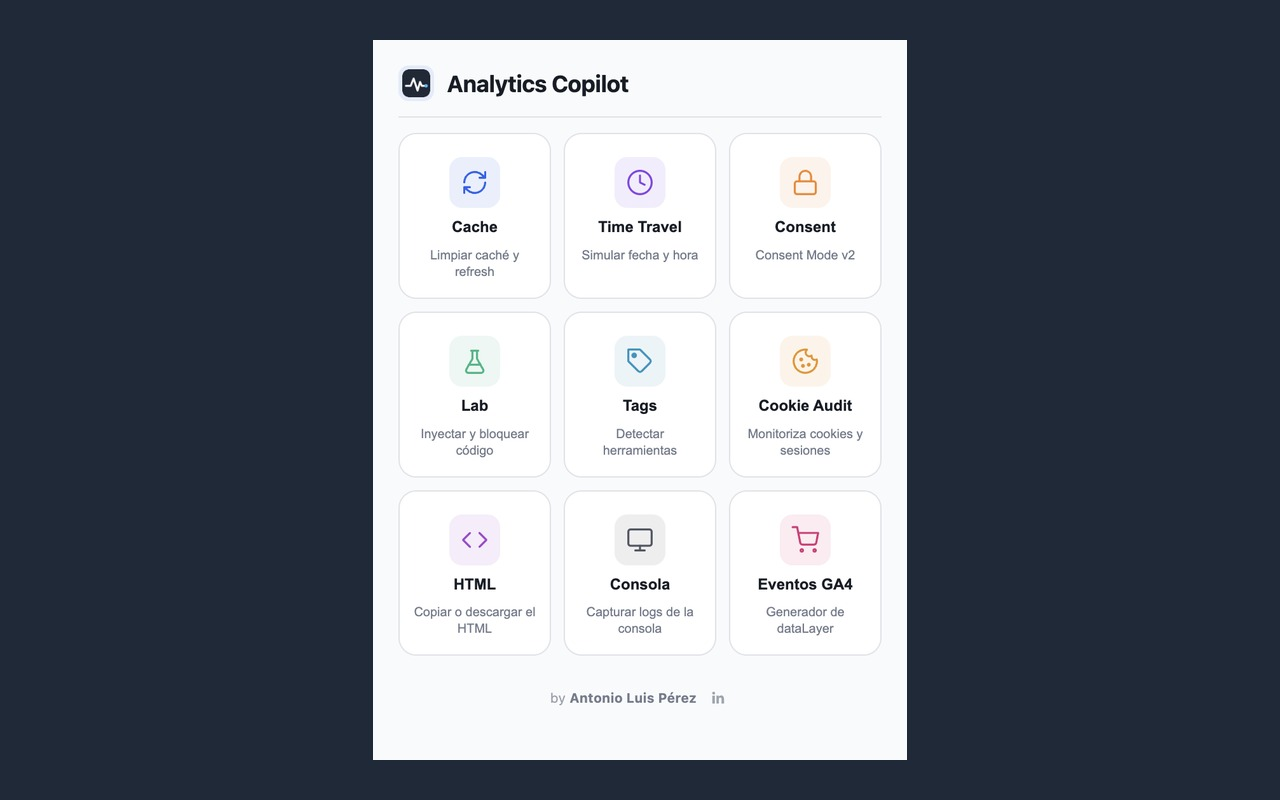
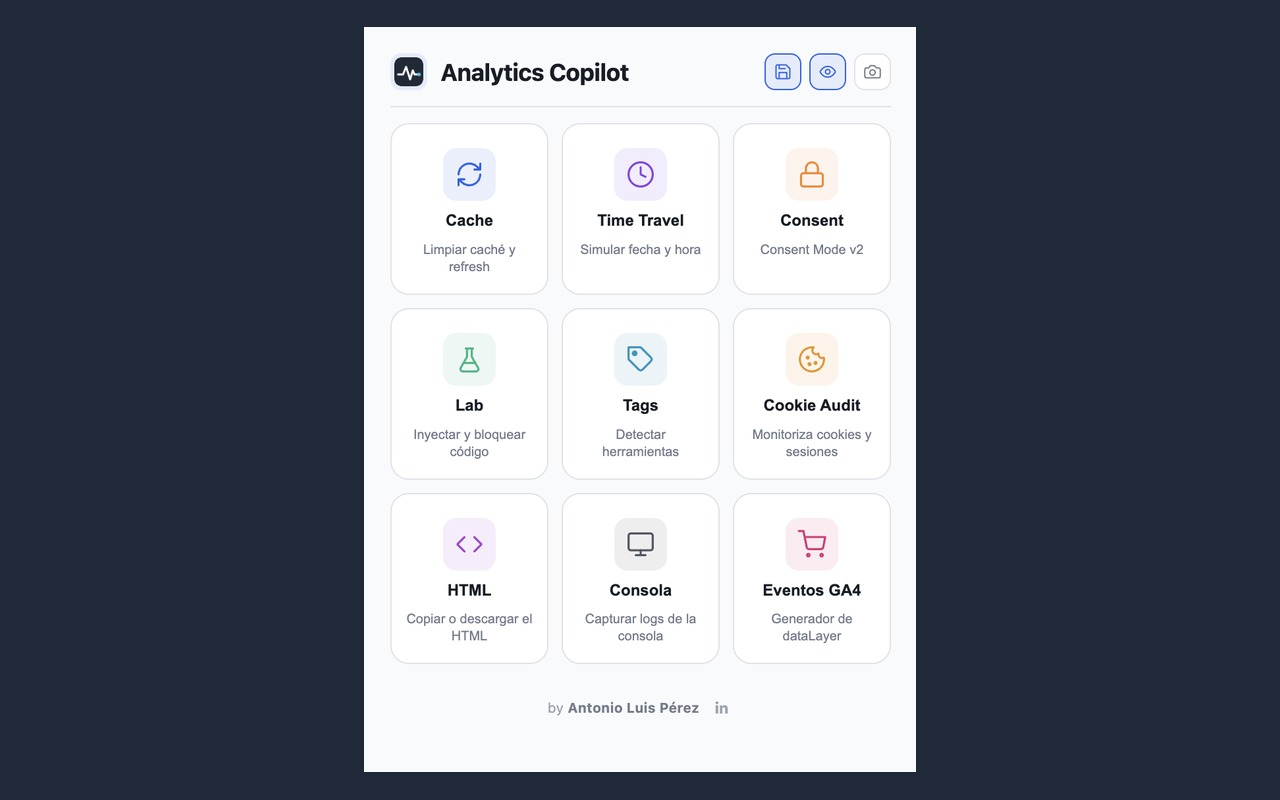
Capturas actualizadas: menu con los iconos de captura y nueva del editor de anotaciones

diff --git a/docs/release-notes-v1.4.0.md b/docs/release-notes-v1.4.0.md
@@ -37,12 +37,14 @@ Sugerencia de encaje: añadirlo al final de la sección "el flujo estrella", com
 
 ## Imágenes
 
-⚠ **Dos avisos importantes antes de tocar las imágenes:**
+Nueva imagen disponible para ilustrar la novedad:
 
-1. **Todavía no hay captura del editor de anotaciones.** No inventes ni generes una: si hace falta ilustrar la sección, usa las existentes o deja la tarjeta sin imagen hasta que Antonio suba una.
-2. `docs/screenshots/menu.jpg` es **anterior** a esta versión: no muestra los iconos de captura de la cabecera. Sigue sirviendo como hero (el grid de tarjetas no ha cambiado), pero conviene rehacerla cuando se pueda.
+- `docs/screenshots/editor.jpg` (1280×800) — **el editor de anotaciones** con la barra de herramientas visible (mover, flecha, caja, texto, difuminar, colores, deshacer, borrar) y una captura de página completa cargada. Úsala junto a la tarjeta nueva o en la sección de novedades.
+- `docs/screenshots/menu.jpg` (1280×800) — **actualizada**: el hero ahora muestra los tres iconos de captura en la cabecera (guardar, abrir, cámara). Sustituye a la anterior en la misma URL, así que no hay que cambiar ningún enlace.
 
-Las URLs públicas de las imágenes (`https://raw.githubusercontent.com/alpc-data-analyst/analytics-copilot/main/…`) solo funcionan **después** de que se publique la v1.4.0 en GitHub. Si la página se actualiza antes del push, las imágenes nuevas darían 404 — las actuales siguen funcionando.
+Ambas siguen el mismo formato que el resto: fondo slate `#1F2937`, 1280×800.
+
+⚠ No generes ni inventes imágenes de la extensión. Si necesitas alguna vista que no está en `docs/screenshots/`, pídesela a Antonio.
 
 ## Enlaces (sin cambios)
 

diff --git a/docs/landing-brief.md b/docs/landing-brief.md
@@ -25,6 +25,7 @@ Base: `https://raw.githubusercontent.com/alpc-data-analyst/analytics-copilot/mai
 
 - `icons/logo.svg` — logo vectorial (pulso sobre badge slate `#1F2937`, punto azul `#38BDF8`)
 - `docs/screenshots/menu.jpg` — **hero/principal**: la parrilla de herramientas (1280×800)
+- `docs/screenshots/editor.jpg` — editor de anotaciones sobre una captura de página completa (1280×800)
 - `docs/screenshots/consent-mode.jpg` — inspector de Consent Mode
 - `docs/screenshots/cookies.jpg` — Cookie Audit (sesión GA4 + atribución)
 - `docs/screenshots/push-event.jpg` — generador de eventos GA4

diff --git a/README.md b/README.md
@@ -50,6 +50,10 @@ Todo sin abrir la pestaña Network.
 |---|---|
 | ![Consent Mode](docs/screenshots/consent-mode.jpg) | ![Cookie Audit](docs/screenshots/cookies.jpg) |
 
+Y para documentar lo que encuentres, captura de página completa con editor: flechas, cajas, texto y difuminado de datos sensibles.
+
+![Editor de capturas](docs/screenshots/editor.jpg)
+
 ## Permisos y privacidad
 
 - **Todo es local**: la extensión no envía ningún dato a ningún servidor. Solo lee lo que ya ocurre en las páginas que visitas.
